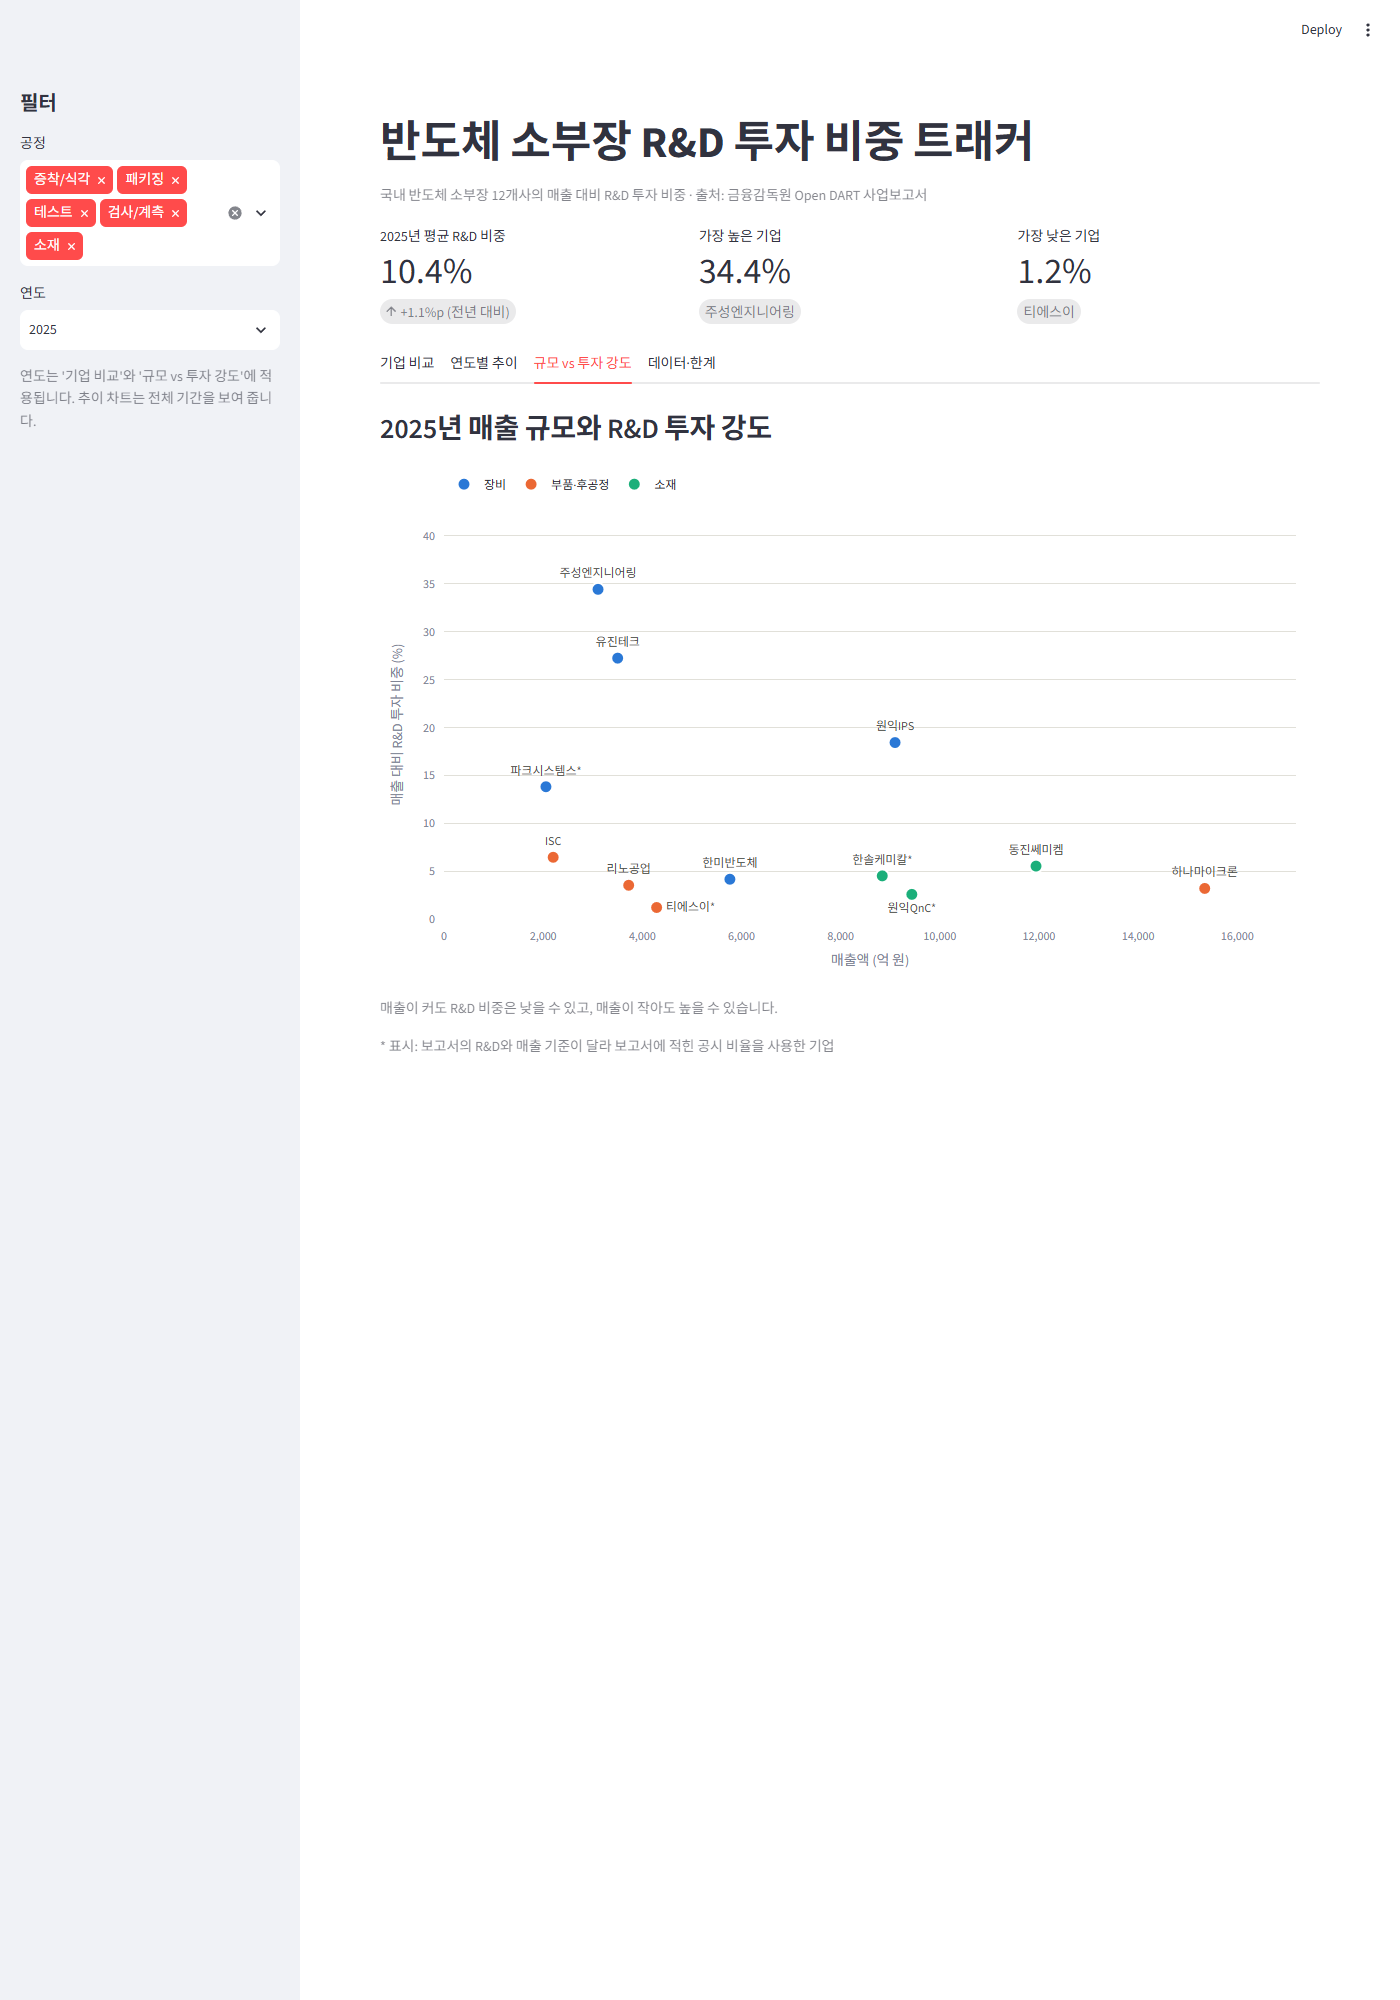
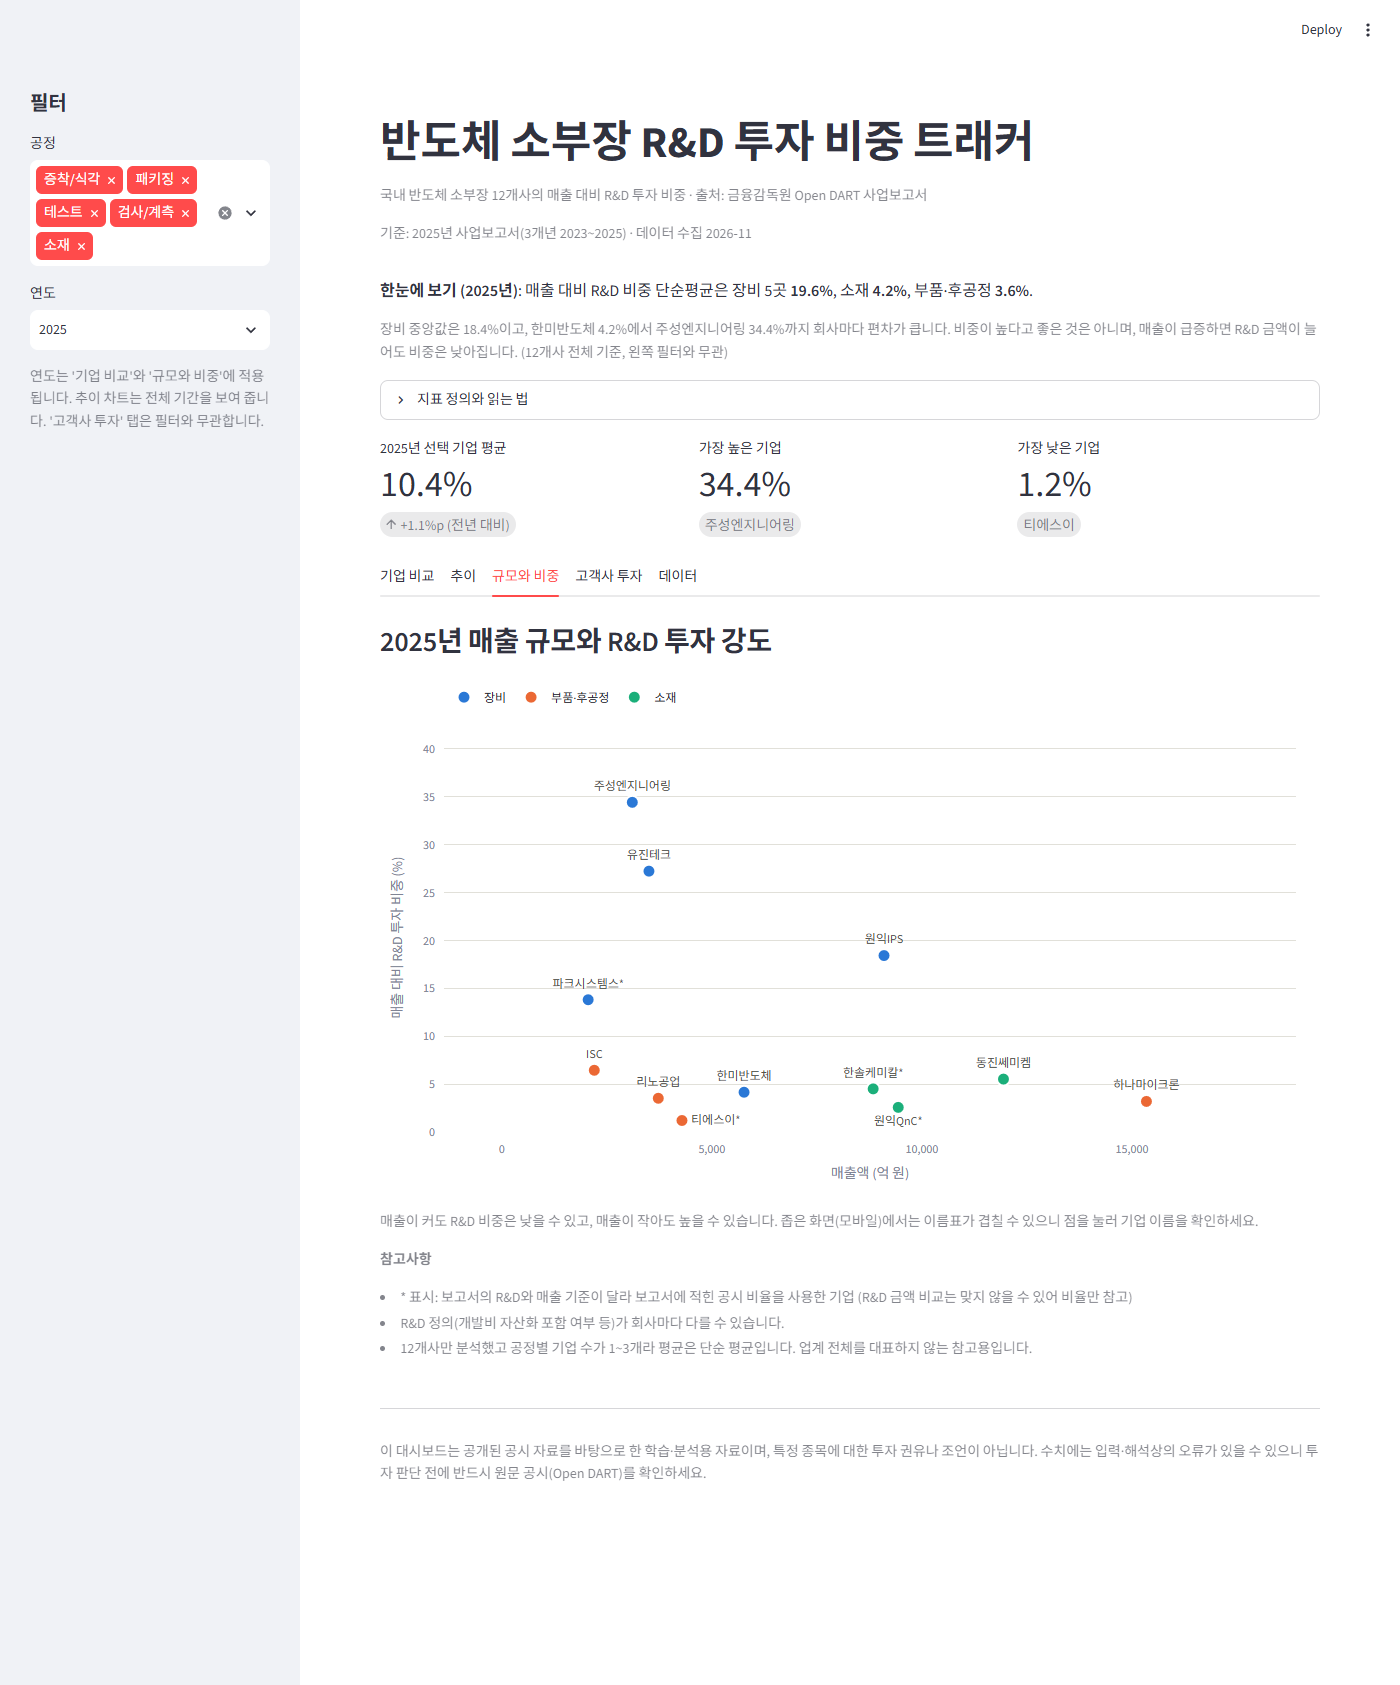
스크린샷 5장을 현재 화면으로 교체하고 README 정리
스크린샷을 내용 높이에 맞춰 다시 캡처했고, README의 중복 문장과 낡은 탭 이름·한계 문구를 고쳤다.

diff --git a/README.md b/README.md
@@ -2,8 +2,6 @@
 
 국내 반도체 소부장(소재·부품·장비) 12개사의 **매출 대비 R&D 투자 비중**을 DART 공시로 수집·분석해 Streamlit 대시보드로 보여 줍니다. (2023~2025, 12개사 × 3개년 = 36행. 비교 기준선으로 쓰는 고객사 삼성전자·SK하이닉스 6행을 더해 `master.csv`는 모두 42행입니다.)
 
-추가로, 고객사(삼성전자·SK하이닉스)의 설비투자가 장비사 5곳의 매출과 얼마나 같이 움직였는지도 분기 단위로 살펴봤습니다(아래 "추가 분석").
-
 > 배포 링크: https://semicondutor-rnd-tracker-ivpokny3wutyfwkvnmcpia.streamlit.app/
 > 프로젝트 소개(2쪽): [project_overview.pdf](project_overview.pdf)
 
@@ -14,16 +12,15 @@
 ![기업 비교](screenshot/01_기업비교.png)
 ![연도별 추이](screenshot/02_연도별추이.png)
 ![규모 vs 투자 강도](screenshot/03_규모vs투자강도.png)
-![데이터·한계](screenshot/04_데이터한계.png)
-![고객사 투자 vs 장비 매출](screenshot/05_고객사투자.png)
-<!-- 스크린샷 갱신 예정: 기존 4장도 현재 화면으로 교체 -->
+![데이터 표](screenshot/04_데이터한계.png)
+![고객사 투자](screenshot/05_고객사투자.png)
 
-대시보드 구성 (사이드바에서 공정·연도를 고르면 기업 비교·규모 vs 투자 강도에 같은 조건이 적용됩니다. 5번째 탭은 필터와 무관합니다)
-- **기업 비교**: 선택한 연도의 R&D 비중 가로 막대 + 공정별 평균 표. 삼성전자·SK하이닉스는 막대가 아니라 점선 '기준선'으로만 표시하고(각 사 전사 연결 기준), 12개사 평균·순위에는 넣지 않았습니다.
-- **연도별 추이**: 2023~2025 기업별 R&D 비중 선 그래프
-- **규모 vs 투자 강도**: 매출(가로)과 R&D 비중(세로) 산점도
-- **고객사 투자 vs 장비 매출**: 삼성전자·SK하이닉스 설비투자와 장비사 5곳 매출의 분기별 증가율, 시차별 상관계수, 회사별 비교, 연 단위 표
-- **데이터**: 전체 데이터 표(CSV 다운로드)와 출처 설명. 한계는 별도 탭 없이 각 탭 맨 아래 회색 '참고사항'에 둡니다.
+대시보드 구성 (사이드바에서 공정·연도를 고르면 기업 비교·규모와 비중에 같은 조건이 적용됩니다. 고객사 투자 탭은 필터와 무관합니다)
+- **기업 비교**: 선택한 연도의 R&D 비중 가로 막대 + 공정별 평균 표. 삼성전자·SK하이닉스와 글로벌 장비사 4곳은 막대가 아니라 점선 '기준선'으로만 표시하고, 12개사 평균·순위에는 넣지 않았습니다.
+- **추이**: 2023~2025 기업별 R&D 비중 선 그래프
+- **규모와 비중**: 매출(가로)과 R&D 비중(세로) 산점도
+- **고객사 투자**: 삼성전자·SK하이닉스 설비투자와 장비사 5곳 매출의 분기별 증가율, 시차별 상관계수, 회사별 비교, 연 단위 표
+- **데이터**: 전체 데이터 표(CSV 다운로드)와 출처 링크. 한계는 별도 탭 없이 각 탭 맨 아래 회색 '참고사항'에 둡니다.
 
 색은 기업이 아니라 **구분(장비 / 부품·후공정 / 소재)** 에만 썼습니다. 기업이 12개라 기업별 색은 구분이 어렵기 때문입니다.
 
@@ -81,9 +78,9 @@
 - **데이터가 이상할 때 확인한 사례**: 동진쎄미켐 매출이 2025년에 -15%로 나왔고, 보고서의 R&D와 공시 비율로 역산한 매출과 약 3,000억 차이가 났습니다. 원인은 2025년 보고서에서 과거 매출이 **재작성**(2023년 13,099억 → 10,097억)된 것이었습니다. 3개년 매출을 최신 보고서 기준으로 통일하자 계산값이 공시 비율과 일치했습니다. 나머지 11개사는 같은 방식으로 비교해 차이가 없음을 확인했습니다.
 
 ## 한계
-- 표본이 12개사뿐이고 공정당 기업 수가 1~3개라 평균은 참고용입니다(단순 평균). 위 "추가 분석의 한계"도 함께 봐 주세요.
+- 표본이 12개사뿐이고 공정당 기업 수가 1~3개라 평균은 참고용입니다(단순 평균).
 - 4개사는 R&D와 매출의 기준이 달라 공시 비율을 썼습니다. 티에스이는 지배회사 단독 R&D라 자회사 R&D가 빠져 있습니다.
-- 증착/식각 장비의 높은 비중(약 18~34%)은 보고서 표 값과 일치하지만, 개발비 자산화 포함 여부 같은 정의 차이는 더 확인이 필요합니다.
+- R&D 집계 기준(정부보조금 차감 전후, 개발비 자산화 포함 여부)은 회사마다 다릅니다. 12개사 보고서 표로 확인한 결과는 인사이트 3번에 적었고, 동진쎄미켐·한솔케미칼·리노공업·원익QnC는 자산화 구분을 알 수 없어 같은 기준으로 맞추지 못했습니다.
 - "왜 그런가"는 데이터에서 끌어낸 해석이라 외부 요인(수요 변화 등)까지 증명하지는 못합니다.
 - R&D 비중이 높다고 좋은 기업은 아닙니다.
 
